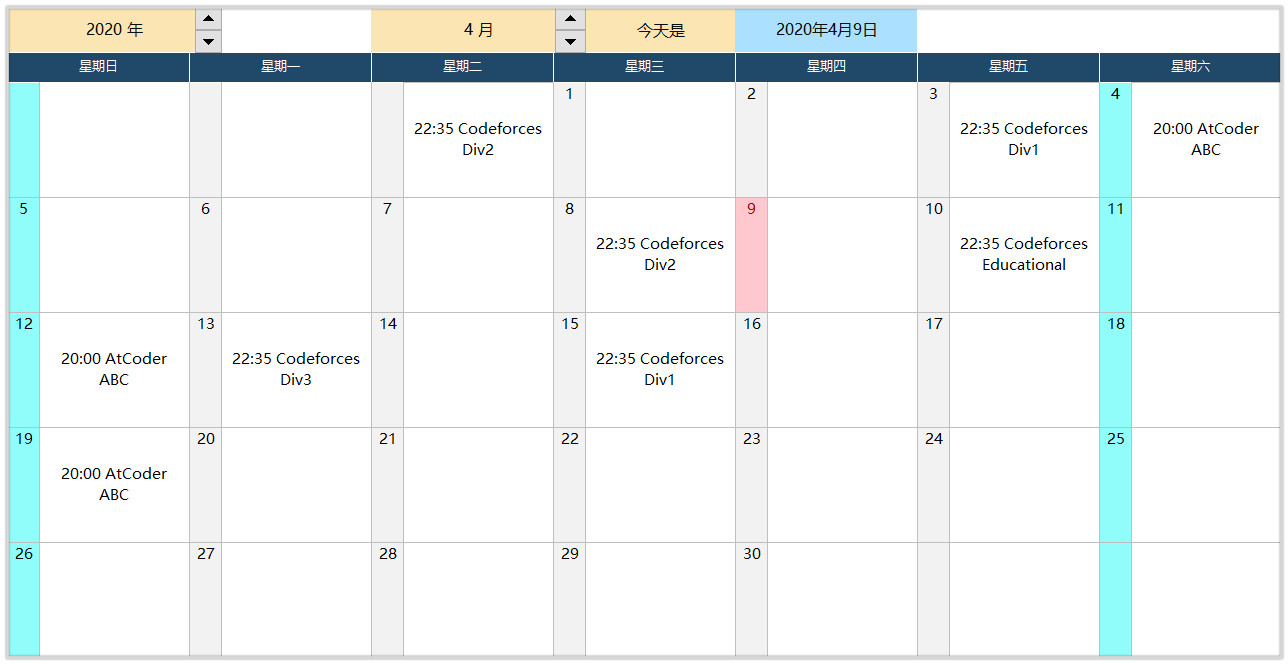
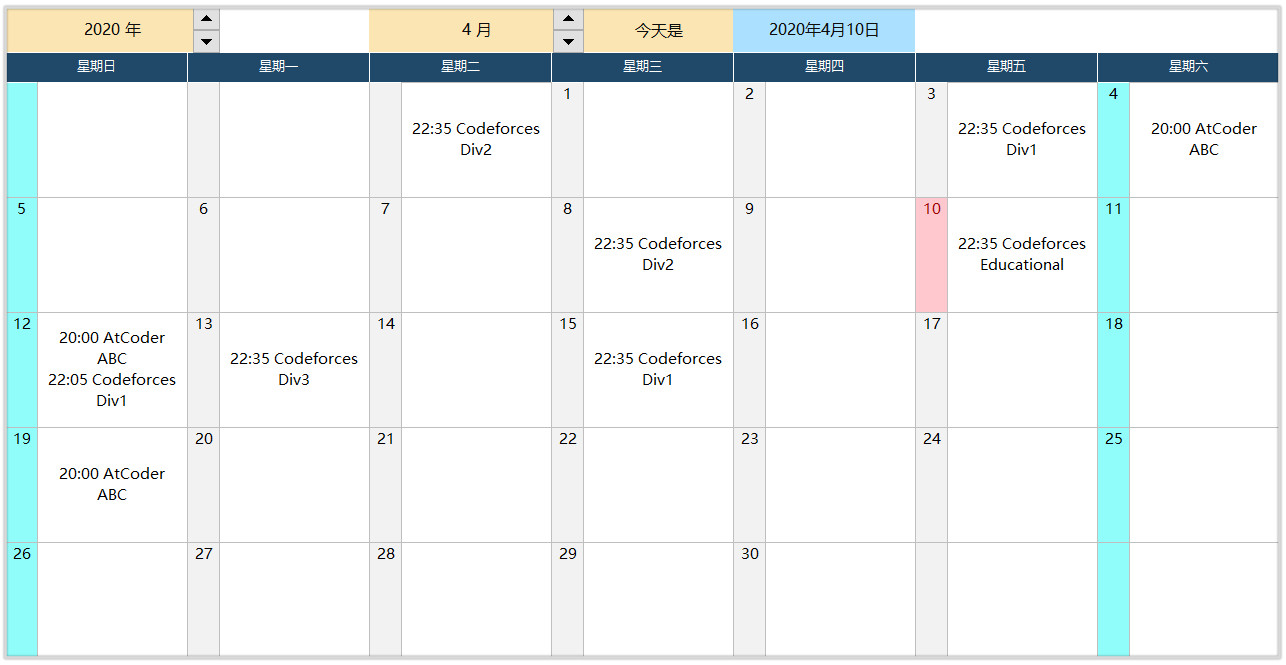
Site updated: 2020-04-10 07:57:50

diff --git a/2020/04/07/Recent-and-Upcoming-Contests/index.html b/2020/04/07/Recent-and-Upcoming-Contests/index.html
@@ -20,16 +20,16 @@
     var CONFIG = {"hostname":"wygz.github.io","root":"/","scheme":"Gemini","version":"7.8.0","exturl":false,"sidebar":{"position":"left","display":"post","padding":18,"offset":12,"onmobile":false},"copycode":{"enable":true,"show_result":false,"style":null},"back2top":{"enable":true,"sidebar":false,"scrollpercent":true},"bookmark":{"enable":false,"color":"#222","save":"auto"},"fancybox":false,"mediumzoom":false,"lazyload":false,"pangu":false,"comments":{"style":"tabs","active":null,"storage":true,"lazyload":false,"nav":null},"algolia":{"hits":{"per_page":10},"labels":{"input_placeholder":"Search for Posts","hits_empty":"We didn't find any results for the search: ${query}","hits_stats":"${hits} results found in ${time} ms"}},"localsearch":{"enable":true,"trigger":"auto","top_n_per_article":1,"unescape":false,"preload":false},"motion":{"enable":true,"async":false,"transition":{"post_block":"fadeIn","post_header":"slideDownIn","post_body":"slideDownIn","coll_header":"slideLeftIn","sidebar":"slideUpIn"}},"path":"search.xml"};
   </script>
 
-  <meta name="description" content="Upcoming Contests04&#x2F;10（周五）    22:35    Edu. Codeforces Round 8504&#x2F;12（周日）    20:00     AtCoder Beginner Contest 16204&#x2F;13（周一）    22:35    Codeforces Round #633 (Div. 3)04&#x2F;15（周三）    22:35    Codeforces R">
+  <meta name="description" content="Upcoming Contests04&#x2F;10（周五）    22:35    Edu. Codeforces Round 8504&#x2F;12（周日）    20:00     AtCoder Beginner Contest 16204&#x2F;12（周日）    22:05    Codeforces Round #633 (Div. 1)04&#x2F;12（周日）    22:05    Codeforces R">
 <meta property="og:type" content="article">
 <meta property="og:title" content="近期在线比赛链接">
 <meta property="og:url" content="http://wygz.github.io/2020/04/07/Recent-and-Upcoming-Contests/index.html">
 <meta property="og:site_name" content="无忧公主的笔记">
-<meta property="og:description" content="Upcoming Contests04&#x2F;10（周五）    22:35    Edu. Codeforces Round 8504&#x2F;12（周日）    20:00     AtCoder Beginner Contest 16204&#x2F;13（周一）    22:35    Codeforces Round #633 (Div. 3)04&#x2F;15（周三）    22:35    Codeforces R">
+<meta property="og:description" content="Upcoming Contests04&#x2F;10（周五）    22:35    Edu. Codeforces Round 8504&#x2F;12（周日）    20:00     AtCoder Beginner Contest 16204&#x2F;12（周日）    22:05    Codeforces Round #633 (Div. 1)04&#x2F;12（周日）    22:05    Codeforces R">
 <meta property="og:locale" content="en_US">
 <meta property="og:image" content="http://wygz.github.io/downloads/cal.jpg">
 <meta property="article:published_time" content="2020-04-07T01:20:04.000Z">
-<meta property="article:modified_time" content="2020-04-09T09:17:58.291Z">
+<meta property="article:modified_time" content="2020-04-09T23:57:24.443Z">
 <meta property="article:author" content="WYGZ">
 <meta name="twitter:card" content="summary">
 <meta name="twitter:image" content="http://wygz.github.io/downloads/cal.jpg">
@@ -231,7 +231,7 @@
                   <i class="far fa-calendar-check"></i>
                 </span>
                 <span class="post-meta-item-text">Edited on</span>
-                <time title="Modified: 2020-04-09 17:17:58" itemprop="dateModified" datetime="2020-04-09T17:17:58+08:00">2020-04-09</time>
+                <time title="Modified: 2020-04-10 07:57:24" itemprop="dateModified" datetime="2020-04-10T07:57:24+08:00">2020-04-10</time>
               </span>
 
           
@@ -245,7 +245,7 @@
     <div class="post-body" itemprop="articleBody">
 
       
-        <h5 id="Upcoming-Contests"><a href="#Upcoming-Contests" class="headerlink" title="Upcoming Contests"></a>Upcoming Contests</h5><p>04/10（周五）    22:35    <a href="https://codeforces.com/contests" target="_blank" rel="noopener">Edu. Codeforces Round 85</a><br>04/12（周日）    20:00     <a href="https://atcoder.jp/contests/abc162" target="_blank" rel="noopener">AtCoder Beginner Contest 162</a><br>04/13（周一）    22:35    <a href="https://codeforces.com/contests" target="_blank" rel="noopener">Codeforces Round #633 (Div. 3)</a><br>04/15（周三）    22:35    <a href="https://codeforces.com/contests" target="_blank" rel="noopener">Codeforces Round #634 (Div. 1)</a><br>04/15（周三）    22:35    <a href="https://codeforces.com/contests" target="_blank" rel="noopener">Codeforces Round #634 (Div. 2)</a><br>04/19（周日）    20:00     <a href="https://atcoder.jp/contests/abc163" target="_blank" rel="noopener">AtCoder Beginner Contest 163</a></p>
+        <h5 id="Upcoming-Contests"><a href="#Upcoming-Contests" class="headerlink" title="Upcoming Contests"></a>Upcoming Contests</h5><p>04/10（周五）    22:35    <a href="https://codeforces.com/contests" target="_blank" rel="noopener">Edu. Codeforces Round 85</a><br>04/12（周日）    20:00     <a href="https://atcoder.jp/contests/abc162" target="_blank" rel="noopener">AtCoder Beginner Contest 162</a><br>04/12（周日）    22:05    <a href="https://codeforces.com/contests" target="_blank" rel="noopener">Codeforces Round #633 (Div. 1)</a><br>04/12（周日）    22:05    <a href="https://codeforces.com/contests" target="_blank" rel="noopener">Codeforces Round #633 (Div. 2)</a><br>04/13（周一）    22:35    <a href="https://codeforces.com/contests" target="_blank" rel="noopener">Codeforces Round #634 (Div. 3)</a><br>04/15（周三）    22:35    <a href="https://codeforces.com/contests" target="_blank" rel="noopener">Codeforces Round #635 (Div. 1)</a><br>04/15（周三）    22:35    <a href="https://codeforces.com/contests" target="_blank" rel="noopener">Codeforces Round #635 (Div. 2)</a><br>04/19（周日）    20:00     <a href="https://atcoder.jp/contests/abc163" target="_blank" rel="noopener">AtCoder Beginner Contest 163</a></p>
 <a id="more"></a>
 <h5 id="Recent-Contests"><a href="#Recent-Contests" class="headerlink" title="Recent Contests"></a>Recent Contests</h5><p>04/08（周三）    22:35     <a href="https://codeforces.com/contest/1333" target="_blank" rel="noopener">Codeforces Round #632 (Div. 2)</a><br>04/04（周六）    20:00     <a href="https://atcoder.jp/contests/abc161" target="_blank" rel="noopener">AtCoder Beginner Contest 161</a><br>04/03（周五）    22:35     <a href="https://codeforces.com/contest/1329" target="_blank" rel="noopener">Codeforces Round #631 (Div. 1)</a><br>04/03（周五）    22:35     <a href="https://codeforces.com/contest/1330" target="_blank" rel="noopener">Codeforces Round #631 (Div. 2)</a></p>
 <p><img src="\downloads\cal.jpg" alt="image" style="zoom:90%;" /></p>

diff --git a/index.html b/index.html
@@ -225,7 +225,7 @@
                   <i class="far fa-calendar-check"></i>
                 </span>
                 <span class="post-meta-item-text">Edited on</span>
-                <time title="Modified: 2020-04-09 17:17:58" itemprop="dateModified" datetime="2020-04-09T17:17:58+08:00">2020-04-09</time>
+                <time title="Modified: 2020-04-10 07:57:24" itemprop="dateModified" datetime="2020-04-10T07:57:24+08:00">2020-04-10</time>
               </span>
 
           
@@ -239,7 +239,7 @@
     <div class="post-body" itemprop="articleBody">
 
       
-          <h5 id="Upcoming-Contests"><a href="#Upcoming-Contests" class="headerlink" title="Upcoming Contests"></a>Upcoming Contests</h5><p>04/10（周五）    22:35    <a href="https://codeforces.com/contests" target="_blank" rel="noopener">Edu. Codeforces Round 85</a><br>04/12（周日）    20:00     <a href="https://atcoder.jp/contests/abc162" target="_blank" rel="noopener">AtCoder Beginner Contest 162</a><br>04/13（周一）    22:35    <a href="https://codeforces.com/contests" target="_blank" rel="noopener">Codeforces Round #633 (Div. 3)</a><br>04/15（周三）    22:35    <a href="https://codeforces.com/contests" target="_blank" rel="noopener">Codeforces Round #634 (Div. 1)</a><br>04/15（周三）    22:35    <a href="https://codeforces.com/contests" target="_blank" rel="noopener">Codeforces Round #634 (Div. 2)</a><br>04/19（周日）    20:00     <a href="https://atcoder.jp/contests/abc163" target="_blank" rel="noopener">AtCoder Beginner Contest 163</a></p>
+          <h5 id="Upcoming-Contests"><a href="#Upcoming-Contests" class="headerlink" title="Upcoming Contests"></a>Upcoming Contests</h5><p>04/10（周五）    22:35    <a href="https://codeforces.com/contests" target="_blank" rel="noopener">Edu. Codeforces Round 85</a><br>04/12（周日）    20:00     <a href="https://atcoder.jp/contests/abc162" target="_blank" rel="noopener">AtCoder Beginner Contest 162</a><br>04/12（周日）    22:05    <a href="https://codeforces.com/contests" target="_blank" rel="noopener">Codeforces Round #633 (Div. 1)</a><br>04/12（周日）    22:05    <a href="https://codeforces.com/contests" target="_blank" rel="noopener">Codeforces Round #633 (Div. 2)</a><br>04/13（周一）    22:35    <a href="https://codeforces.com/contests" target="_blank" rel="noopener">Codeforces Round #634 (Div. 3)</a><br>04/15（周三）    22:35    <a href="https://codeforces.com/contests" target="_blank" rel="noopener">Codeforces Round #635 (Div. 1)</a><br>04/15（周三）    22:35    <a href="https://codeforces.com/contests" target="_blank" rel="noopener">Codeforces Round #635 (Div. 2)</a><br>04/19（周日）    20:00     <a href="https://atcoder.jp/contests/abc163" target="_blank" rel="noopener">AtCoder Beginner Contest 163</a></p>
           <!--noindex-->
             <div class="post-button">
               <a class="btn" href="/2020/04/07/Recent-and-Upcoming-Contests/#more" rel="contents">
